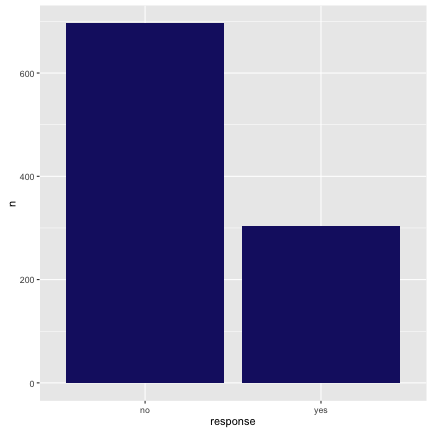
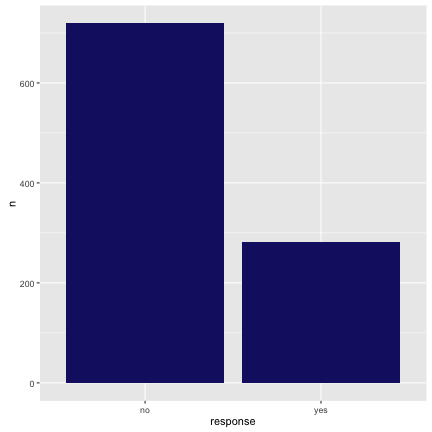
Updates to README for new way of handling geography

diff --git a/README.md b/README.md
@@ -8,12 +8,13 @@ WWC: Weighing the Wisdom of Crowds
 
 [![Travis-CI Build Status](https://travis-ci.org/heathermkrause/WWC.svg?branch=master)](https://travis-ci.org/heathermkrause/WWC)
 [![CRAN_Status_Badge](http://www.r-pkg.org/badges/version/WWC)](https://cran.r-project.org/package=WWC)
-[![Coverage Status](https://img.shields.io/codecov/c/github/heathermkrause/WWC/master.svg)](https://codecov.io/github/heathermkrause/WWC?branch=master)
+[![Codecov](https://codecov.io/gh/heathermkrause/WWC/branch/master/graph/badge.svg)](https://codecov.io/gh/heathermkrause/WWC)
 
 
 
 
-This R package is part of the the Veracio survey tool developed by leaders from [Orb](http://www.orbmedia.org/), [Datassist](http://idatassist.com/), and [Cognite Labs](http://www.cognitelabs.com/), and supported by a [2016 Knight Foundation News Challenge on Data](http://idatassist.com/knight/). This survey tool provides a set of software tools and online services for nonprofits, local governments, social service agencies, and others to:
+
+This R package is part of the the Veracio survey tool developed by leaders from [Orb](http://www.orbmedia.org/), [Datassist](http://idatassist.com/), and [Cognite Labs](http://www.cognitelabs.com/), and supported by a [2016 Knight Foundation News Challenge on Data](http://idatassist.com/knight/). This survey tool provides a set of software tools and online services for nonprofits, local governments, social service agencies, journalists, and others to:
 
 - frame proper sampling questions,
 - help construct, link, and embed them into existing survey and Q&A platforms, and 
@@ -39,31 +40,31 @@ This package contains a simulated survey called `texassurvey` that contains 1000
 ```r
 library(WWC)
 texassurvey
-#> # A tibble: 1,000 x 5
-#>       sex                       raceethnicity            age
-#>     <chr>                               <chr>          <chr>
-#> 1    Male WHITE ALONE, NOT HISPANIC OR LATINO 35 to 44 years
-#> 2  Female                         ASIAN ALONE 20 to 24 years
-#> 3  Female WHITE ALONE, NOT HISPANIC OR LATINO 65 to 74 years
-#> 4  Female WHITE ALONE, NOT HISPANIC OR LATINO 20 to 24 years
-#> 5    Male WHITE ALONE, NOT HISPANIC OR LATINO 20 to 24 years
-#> 6    Male WHITE ALONE, NOT HISPANIC OR LATINO 25 to 29 years
-#> 7    Male WHITE ALONE, NOT HISPANIC OR LATINO 75 to 84 years
-#> 8  Female WHITE ALONE, NOT HISPANIC OR LATINO 35 to 44 years
-#> 9    Male WHITE ALONE, NOT HISPANIC OR LATINO 65 to 74 years
-#> 10 Female WHITE ALONE, NOT HISPANIC OR LATINO 55 to 64 years
-#>                                      education response
-#>                                          <chr>    <chr>
-#> 1                  Bachelor's degree or higher       no
-#> 2                  Bachelor's degree or higher       no
-#> 3                Less than high school diploma       no
-#> 4  High school graduate (includes equivalency)       no
-#> 5           Some college or associate's degree       no
-#> 6           Some college or associate's degree       no
-#> 7  High school graduate (includes equivalency)       no
-#> 8                  Bachelor's degree or higher      yes
-#> 9  High school graduate (includes equivalency)       no
-#> 10          Some college or associate's degree      yes
+#> # A tibble: 1,000 x 6
+#>       sex                       raceethnicity               age
+#>     <chr>                               <chr>             <chr>
+#> 1    Male WHITE ALONE, NOT HISPANIC OR LATINO    30 to 34 years
+#> 2  Female WHITE ALONE, NOT HISPANIC OR LATINO    45 to 54 years
+#> 3    Male WHITE ALONE, NOT HISPANIC OR LATINO    45 to 54 years
+#> 4  Female                               OTHER   18 and 19 years
+#> 5    Male WHITE ALONE, NOT HISPANIC OR LATINO    20 to 24 years
+#> 6    Male WHITE ALONE, NOT HISPANIC OR LATINO 85 years and over
+#> 7  Female                  HISPANIC OR LATINO   18 and 19 years
+#> 8    Male WHITE ALONE, NOT HISPANIC OR LATINO    75 to 84 years
+#> 9  Female                  HISPANIC OR LATINO 85 years and over
+#> 10 Female                  HISPANIC OR LATINO    25 to 29 years
+#>                                      education geography response
+#>                                          <chr>     <chr>    <chr>
+#> 1                Less than high school diploma        TX       no
+#> 2           Some college or associate's degree        TX       no
+#> 3           Some college or associate's degree        TX      yes
+#> 4           Some college or associate's degree        TX       no
+#> 5                  Bachelor's degree or higher        TX       no
+#> 6           Some college or associate's degree        TX       no
+#> 7                Less than high school diploma        TX      yes
+#> 8  High school graduate (includes equivalency)        TX       no
+#> 9                  Bachelor's degree or higher        TX      yes
+#> 10          Some college or associate's degree        TX      yes
 #> # ... with 990 more rows
 ```
 
@@ -84,33 +85,33 @@ Instead, the Veracio survey tool can be used to statistically weight each survey
 
 
 ```r
-weighted <- weight_wwc(texassurvey, TX, sex, raceethnicity)
+weighted <- weight_wwc(texassurvey, sex, raceethnicity)
 weighted
-#> # A tibble: 1,000 x 6
-#>       sex                       raceethnicity            age
-#>     <chr>                               <chr>          <chr>
-#> 1    Male WHITE ALONE, NOT HISPANIC OR LATINO 35 to 44 years
-#> 2  Female                         ASIAN ALONE 20 to 24 years
-#> 3  Female WHITE ALONE, NOT HISPANIC OR LATINO 65 to 74 years
-#> 4  Female WHITE ALONE, NOT HISPANIC OR LATINO 20 to 24 years
-#> 5    Male WHITE ALONE, NOT HISPANIC OR LATINO 20 to 24 years
-#> 6    Male WHITE ALONE, NOT HISPANIC OR LATINO 25 to 29 years
-#> 7    Male WHITE ALONE, NOT HISPANIC OR LATINO 75 to 84 years
-#> 8  Female WHITE ALONE, NOT HISPANIC OR LATINO 35 to 44 years
-#> 9    Male WHITE ALONE, NOT HISPANIC OR LATINO 65 to 74 years
-#> 10 Female WHITE ALONE, NOT HISPANIC OR LATINO 55 to 64 years
+#> # A tibble: 1,000 x 7
+#>    geography    sex                       raceethnicity               age
+#>        <chr>  <chr>                               <chr>             <chr>
+#> 1         TX   Male WHITE ALONE, NOT HISPANIC OR LATINO    30 to 34 years
+#> 2         TX Female WHITE ALONE, NOT HISPANIC OR LATINO    45 to 54 years
+#> 3         TX   Male WHITE ALONE, NOT HISPANIC OR LATINO    45 to 54 years
+#> 4         TX Female                               OTHER   18 and 19 years
+#> 5         TX   Male WHITE ALONE, NOT HISPANIC OR LATINO    20 to 24 years
+#> 6         TX   Male WHITE ALONE, NOT HISPANIC OR LATINO 85 years and over
+#> 7         TX Female                  HISPANIC OR LATINO   18 and 19 years
+#> 8         TX   Male WHITE ALONE, NOT HISPANIC OR LATINO    75 to 84 years
+#> 9         TX Female                  HISPANIC OR LATINO 85 years and over
+#> 10        TX Female                  HISPANIC OR LATINO    25 to 29 years
 #>                                      education response    weight
 #>                                          <chr>    <chr>     <dbl>
-#> 1                  Bachelor's degree or higher       no 0.5445805
-#> 2                  Bachelor's degree or higher       no 3.7007638
-#> 3                Less than high school diploma       no 0.6192636
-#> 4  High school graduate (includes equivalency)       no 0.6192636
-#> 5           Some college or associate's degree       no 0.5445805
-#> 6           Some college or associate's degree       no 0.5445805
-#> 7  High school graduate (includes equivalency)       no 0.5445805
-#> 8                  Bachelor's degree or higher      yes 0.6192636
-#> 9  High school graduate (includes equivalency)       no 0.5445805
-#> 10          Some college or associate's degree      yes 0.6192636
+#> 1                Less than high school diploma       no 0.5523019
+#> 2           Some college or associate's degree       no 0.6083621
+#> 3           Some college or associate's degree      yes 0.5523019
+#> 4           Some college or associate's degree       no 0.3937006
+#> 5                  Bachelor's degree or higher       no 0.5523019
+#> 6           Some college or associate's degree       no 0.5523019
+#> 7                Less than high school diploma      yes 2.6344291
+#> 8  High school graduate (includes equivalency)       no 0.5523019
+#> 9                  Bachelor's degree or higher      yes 2.6344291
+#> 10          Some college or associate's degree      yes 2.6344291
 #> # ... with 990 more rows
 ```
 
